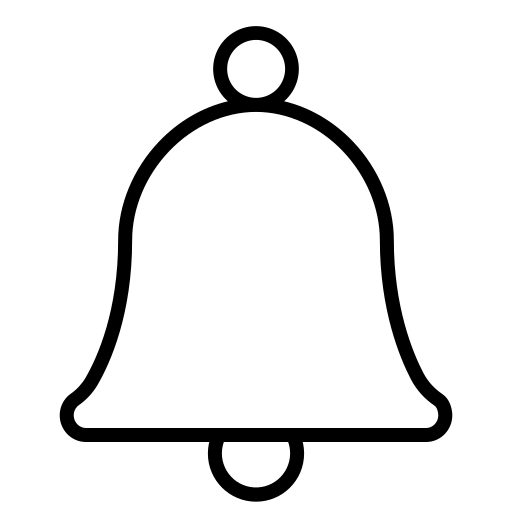
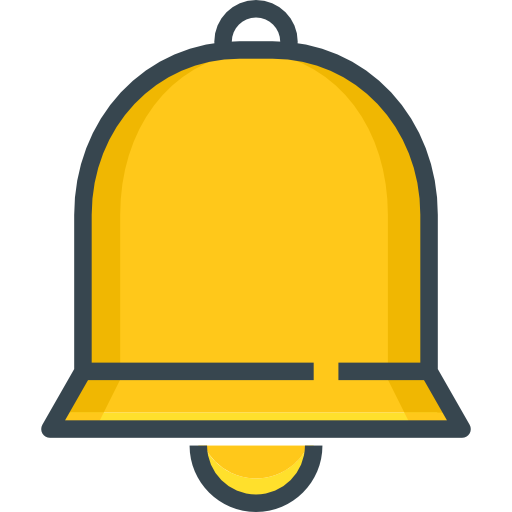
sprint1 수정

diff --git a/ssis/src/components/todo/List.js b/ssis/src/components/todo/List.js
@@ -14,6 +14,7 @@ class List extends Component {
             todos_1 : [],
             todos_2 : [],
             project_id : this.props.match.params.id,
+            progressValue : 0
         }
     }
 
@@ -53,6 +54,13 @@ class List extends Component {
         } catch (e) { 
             console.log(e); 
         }
+        
+        try {
+            const res = await axios.get(`http://ec2-3-34-73-102.ap-northeast-2.compute.amazonaws.com/projects/${this.state.project_id}/progress_rate`);
+            this.setState({ progressValue : res.item})
+        } catch (e) {
+            console.log(e);
+        }
     };
 
     componentDidMount() { 
@@ -73,7 +81,7 @@ class List extends Component {
                     <div style={{ width: '500px',margin: '0px auto'}}>
                     <p style={{ float: 'left', marginBottom:'0px'}}>진행률</p>
                     <p style={{ float: 'right', marginBottom:'0px'}}>5%</p>
-                    <progress value = '5' max="100" className="todo-progress"></progress>
+                    <progress value = {this.state.progressValue} max="100" className="todo-progress"></progress>
                     </div>
                 </div>
                 <div className = "todoList">

diff --git a/ssis/src/components/notifications/List.js b/ssis/src/components/notifications/List.js
@@ -74,7 +74,7 @@ class List extends Component {
                             <img alt="" src="/img/alarm.png" className="img-alarm"/>
                         </Dropdown.Toggle>
                         <Dropdown.Menu className="nofi-menu">
-                            <Dropdown.Item className="nofi-navDrop">
+                            <Dropdown.Item style={{width: '350px', height: 'auto', fontSize:'13px'}}>
                                 초대알람이 없습니다.
                             </Dropdown.Item>
                         </Dropdown.Menu>
@@ -87,7 +87,7 @@ class List extends Component {
                 <div>
                     <Dropdown align="end" drop="down">
                         <Dropdown.Toggle className="nofi-dropButoon">
-                            <img alt="" src="/img/alarm.png" className="img-alarm"/>
+                            <img alt="" src="/img/alarm1.png" className="img-alarm"/>
                         </Dropdown.Toggle>
                         <Dropdown.Menu className="nofi-menu">
                         {this.state.alarms.map((item) => {

diff --git a/ssis/src/css/todo/list.css b/ssis/src/css/todo/list.css
@@ -16,14 +16,18 @@
 .todo-title {
   float: left;
   width: auto;
+  margin-bottom: 20px;
 }
 
 .todo-dday {
   color: red;
+  float: right;
 }
 
 .todo-card {
   margin: 5% auto 5% auto;
+  min-height: 130px;
+  max-height: auto;
 }
 
 .participants {
@@ -33,8 +37,11 @@
 }
 
 .participant {
+  margin-bottom: 5px;
+  text-align: left;
   float: left;
   width: 47%;
+  font-size: 14px;
 }
 
 .p1 {
@@ -42,6 +49,7 @@
   background-color: beige;
   width: auto;
   font-size: 20px;
+  border-radius: 3px;
 }
 
 .p2 {
@@ -49,6 +57,7 @@
   background-color: aquamarine;
   width: auto;
   font-size: 20px;
+  border-radius: 3px;
 }
 
 .p3 {
@@ -56,6 +65,7 @@
   background-color: burlywood;
   width: auto;
   font-size: 20px;
+  border-radius: 3px;
 }
 
 .todo-progress {

diff --git a/ssis/src/css/navi/Navibar.css b/ssis/src/css/navi/Navibar.css
@@ -7,20 +7,20 @@
   width: 100px;
   height: 40px;
   margin-top: 5px;
-  margin-left: 3%;
+  margin-left: 72px;
   float: left;
 }
 
 .img-person {
   width: 30px;
   height: 30px;
-  margin-right: 15%;
+  margin-right: 10px;
 }
 
 .img-alarm {
-  width: 30px;
-  height: 30px;
-  margin-top: 3px;
+  width: 28px;
+  height: 28px;
+  margin-top: 5px;
 }
 
 .user-name-dropdown {
@@ -33,7 +33,7 @@
 
 .nav-profile {
   float: right;
-  margin-right: 3%;
+  margin-right: 72px;
 }
 
 .contanier {

diff --git a/ssis/src/css/notifications/list.css b/ssis/src/css/notifications/list.css
@@ -1,5 +1,7 @@
 .nofi-navDrop {
-  width: 350px;
+  width: 345px;
+  height: 100%;
+  margin-bottom: 19%;
 }
 
 .nofi-dropButoon {
@@ -29,12 +31,13 @@
   width: 65%;
   margin-right: 4%;
   font-size: 14px;
+  white-space: normal;
 }
 
 .nofi-button-area {
   float: left;
   width: 30%;
-  margin-top: 2%;
+  margin-top: 3%;
 }
 
 .nofi-accept-button {
@@ -58,5 +61,4 @@
 }
 
 .nofi-divider {
-  margin-top: 50px;
 }
